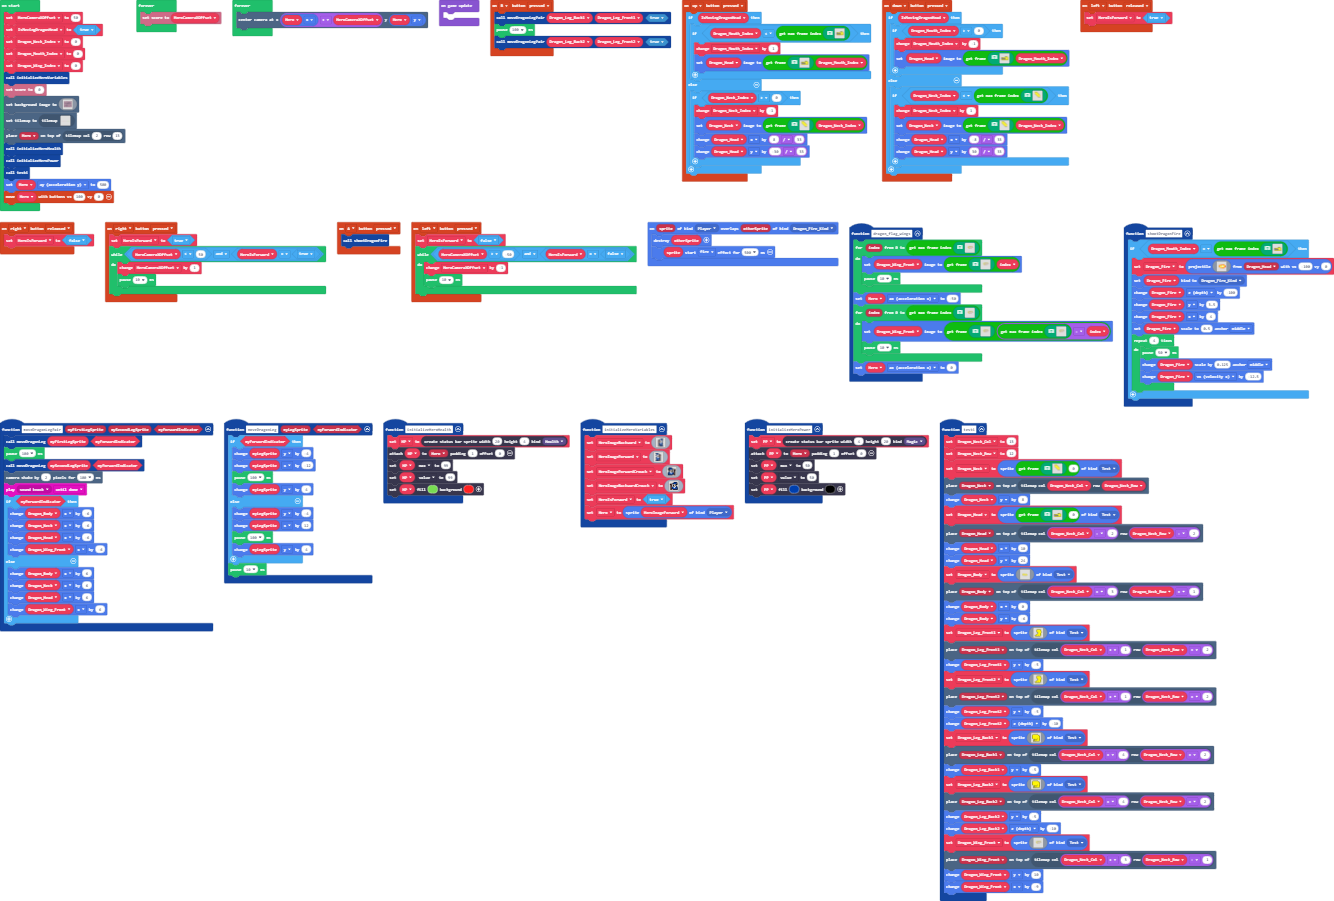
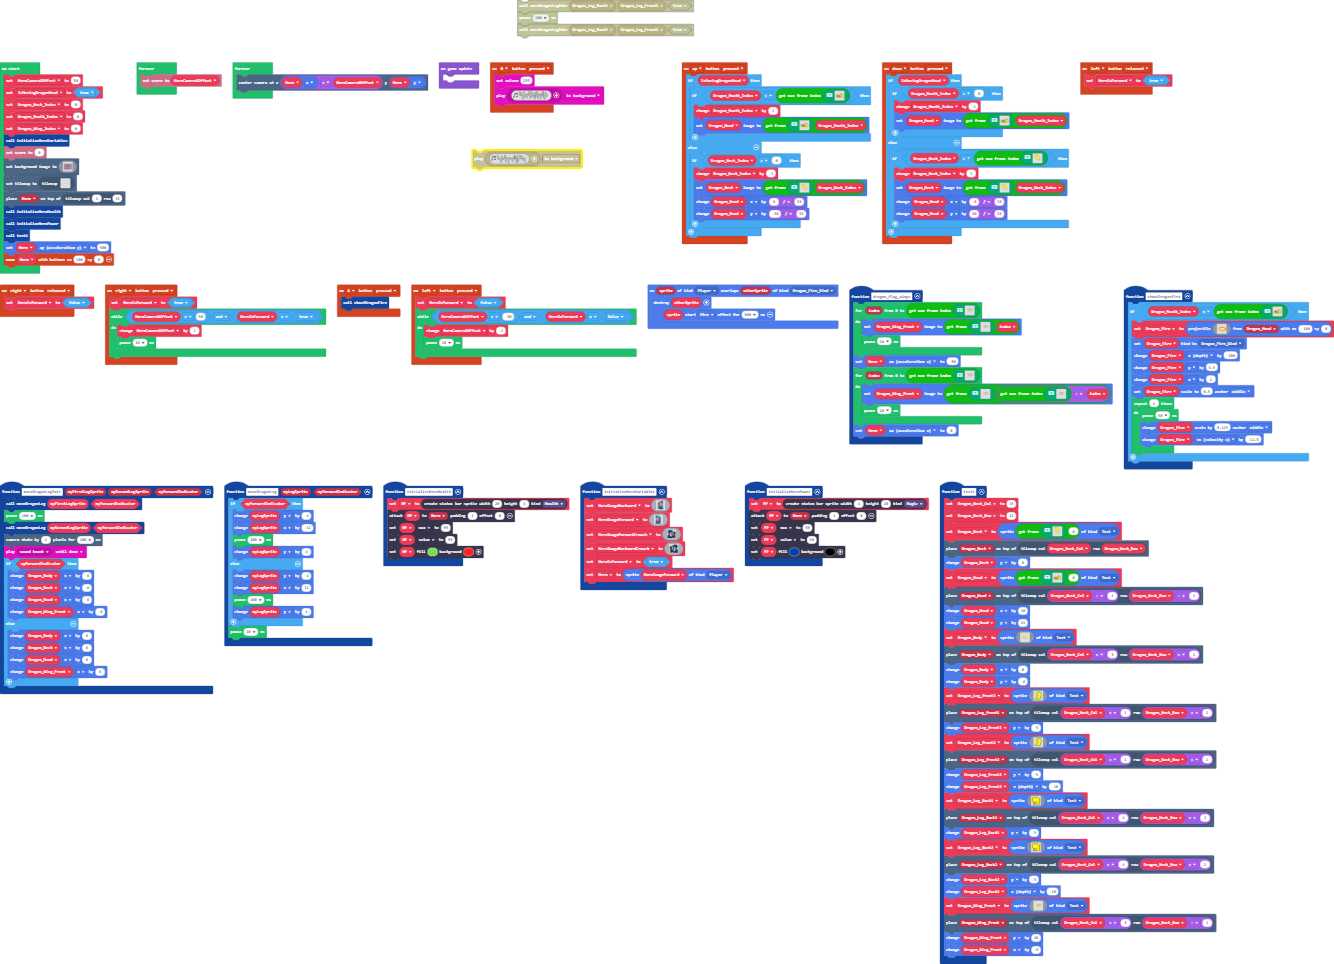
Update main.blocks, main.ts

diff --git a/main.ts b/main.ts
@@ -39,9 +39,8 @@ function initializeHeroHealth () {
     HP.setColor(7, 2)
 }
 controller.B.onEvent(ControllerButtonEvent.Pressed, function () {
-    moveDragonLegPair(Dragon_Leg_Back1, Dragon_Leg_Front1, true)
-    pause(100)
-    moveDragonLegPair(Dragon_Leg_Back2, Dragon_Leg_Front2, true)
+    music.setVolume(255)
+    music.play(music.createSoundEffect(WaveShape.Noise, 196, 196, 246, 255, 1000, SoundExpressionEffect.None, InterpolationCurve.Curve), music.PlaybackMode.InBackground)
 })
 controller.A.onEvent(ControllerButtonEvent.Pressed, function () {
     shootDragonFire()
@@ -187,13 +186,13 @@ function dragon_flag_wings () {
 let Dragon_Fire: Sprite = null
 let PP: StatusBarSprite = null
 let Dragon_Wing_Front: Sprite = null
+let Dragon_Leg_Back2: Sprite = null
+let Dragon_Leg_Back1: Sprite = null
+let Dragon_Leg_Front2: Sprite = null
+let Dragon_Leg_Front1: Sprite = null
 let Dragon_Body: Sprite = null
 let Dragon_Neck_Row = 0
 let Dragon_Neck_Col = 0
-let Dragon_Leg_Front2: Sprite = null
-let Dragon_Leg_Back2: Sprite = null
-let Dragon_Leg_Front1: Sprite = null
-let Dragon_Leg_Back1: Sprite = null
 let HP: StatusBarSprite = null
 let Dragon_Neck: Sprite = null
 let Dragon_Head: Sprite = null
